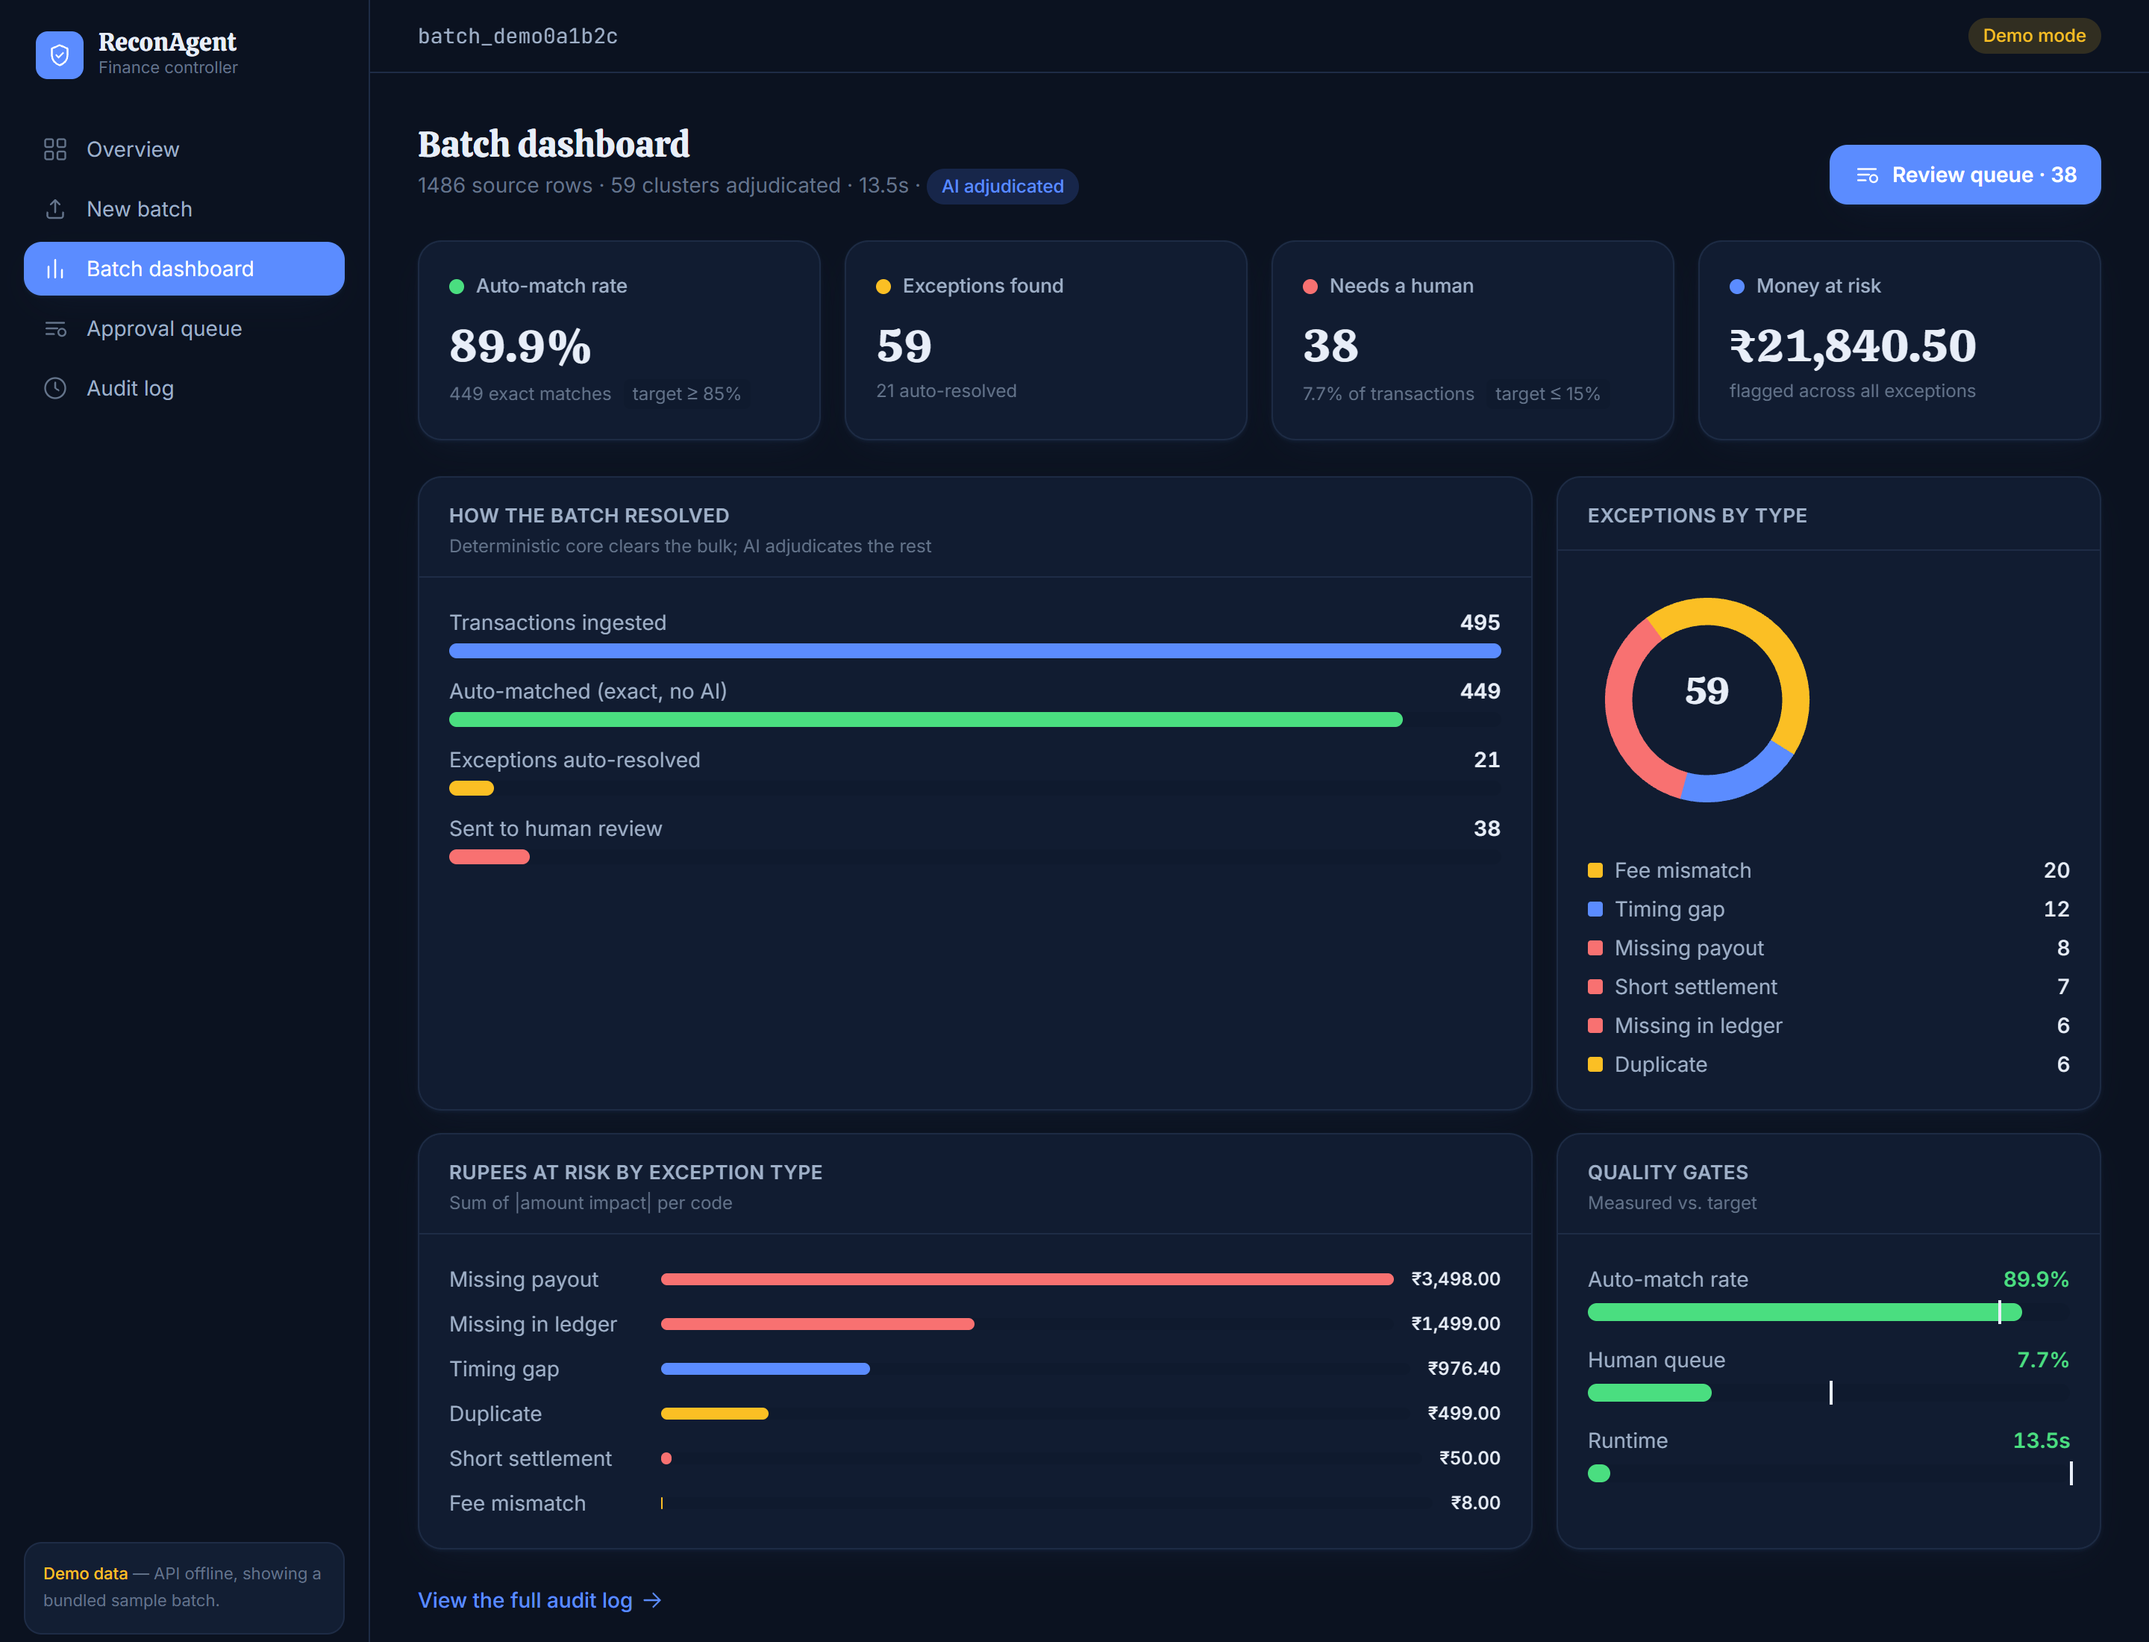
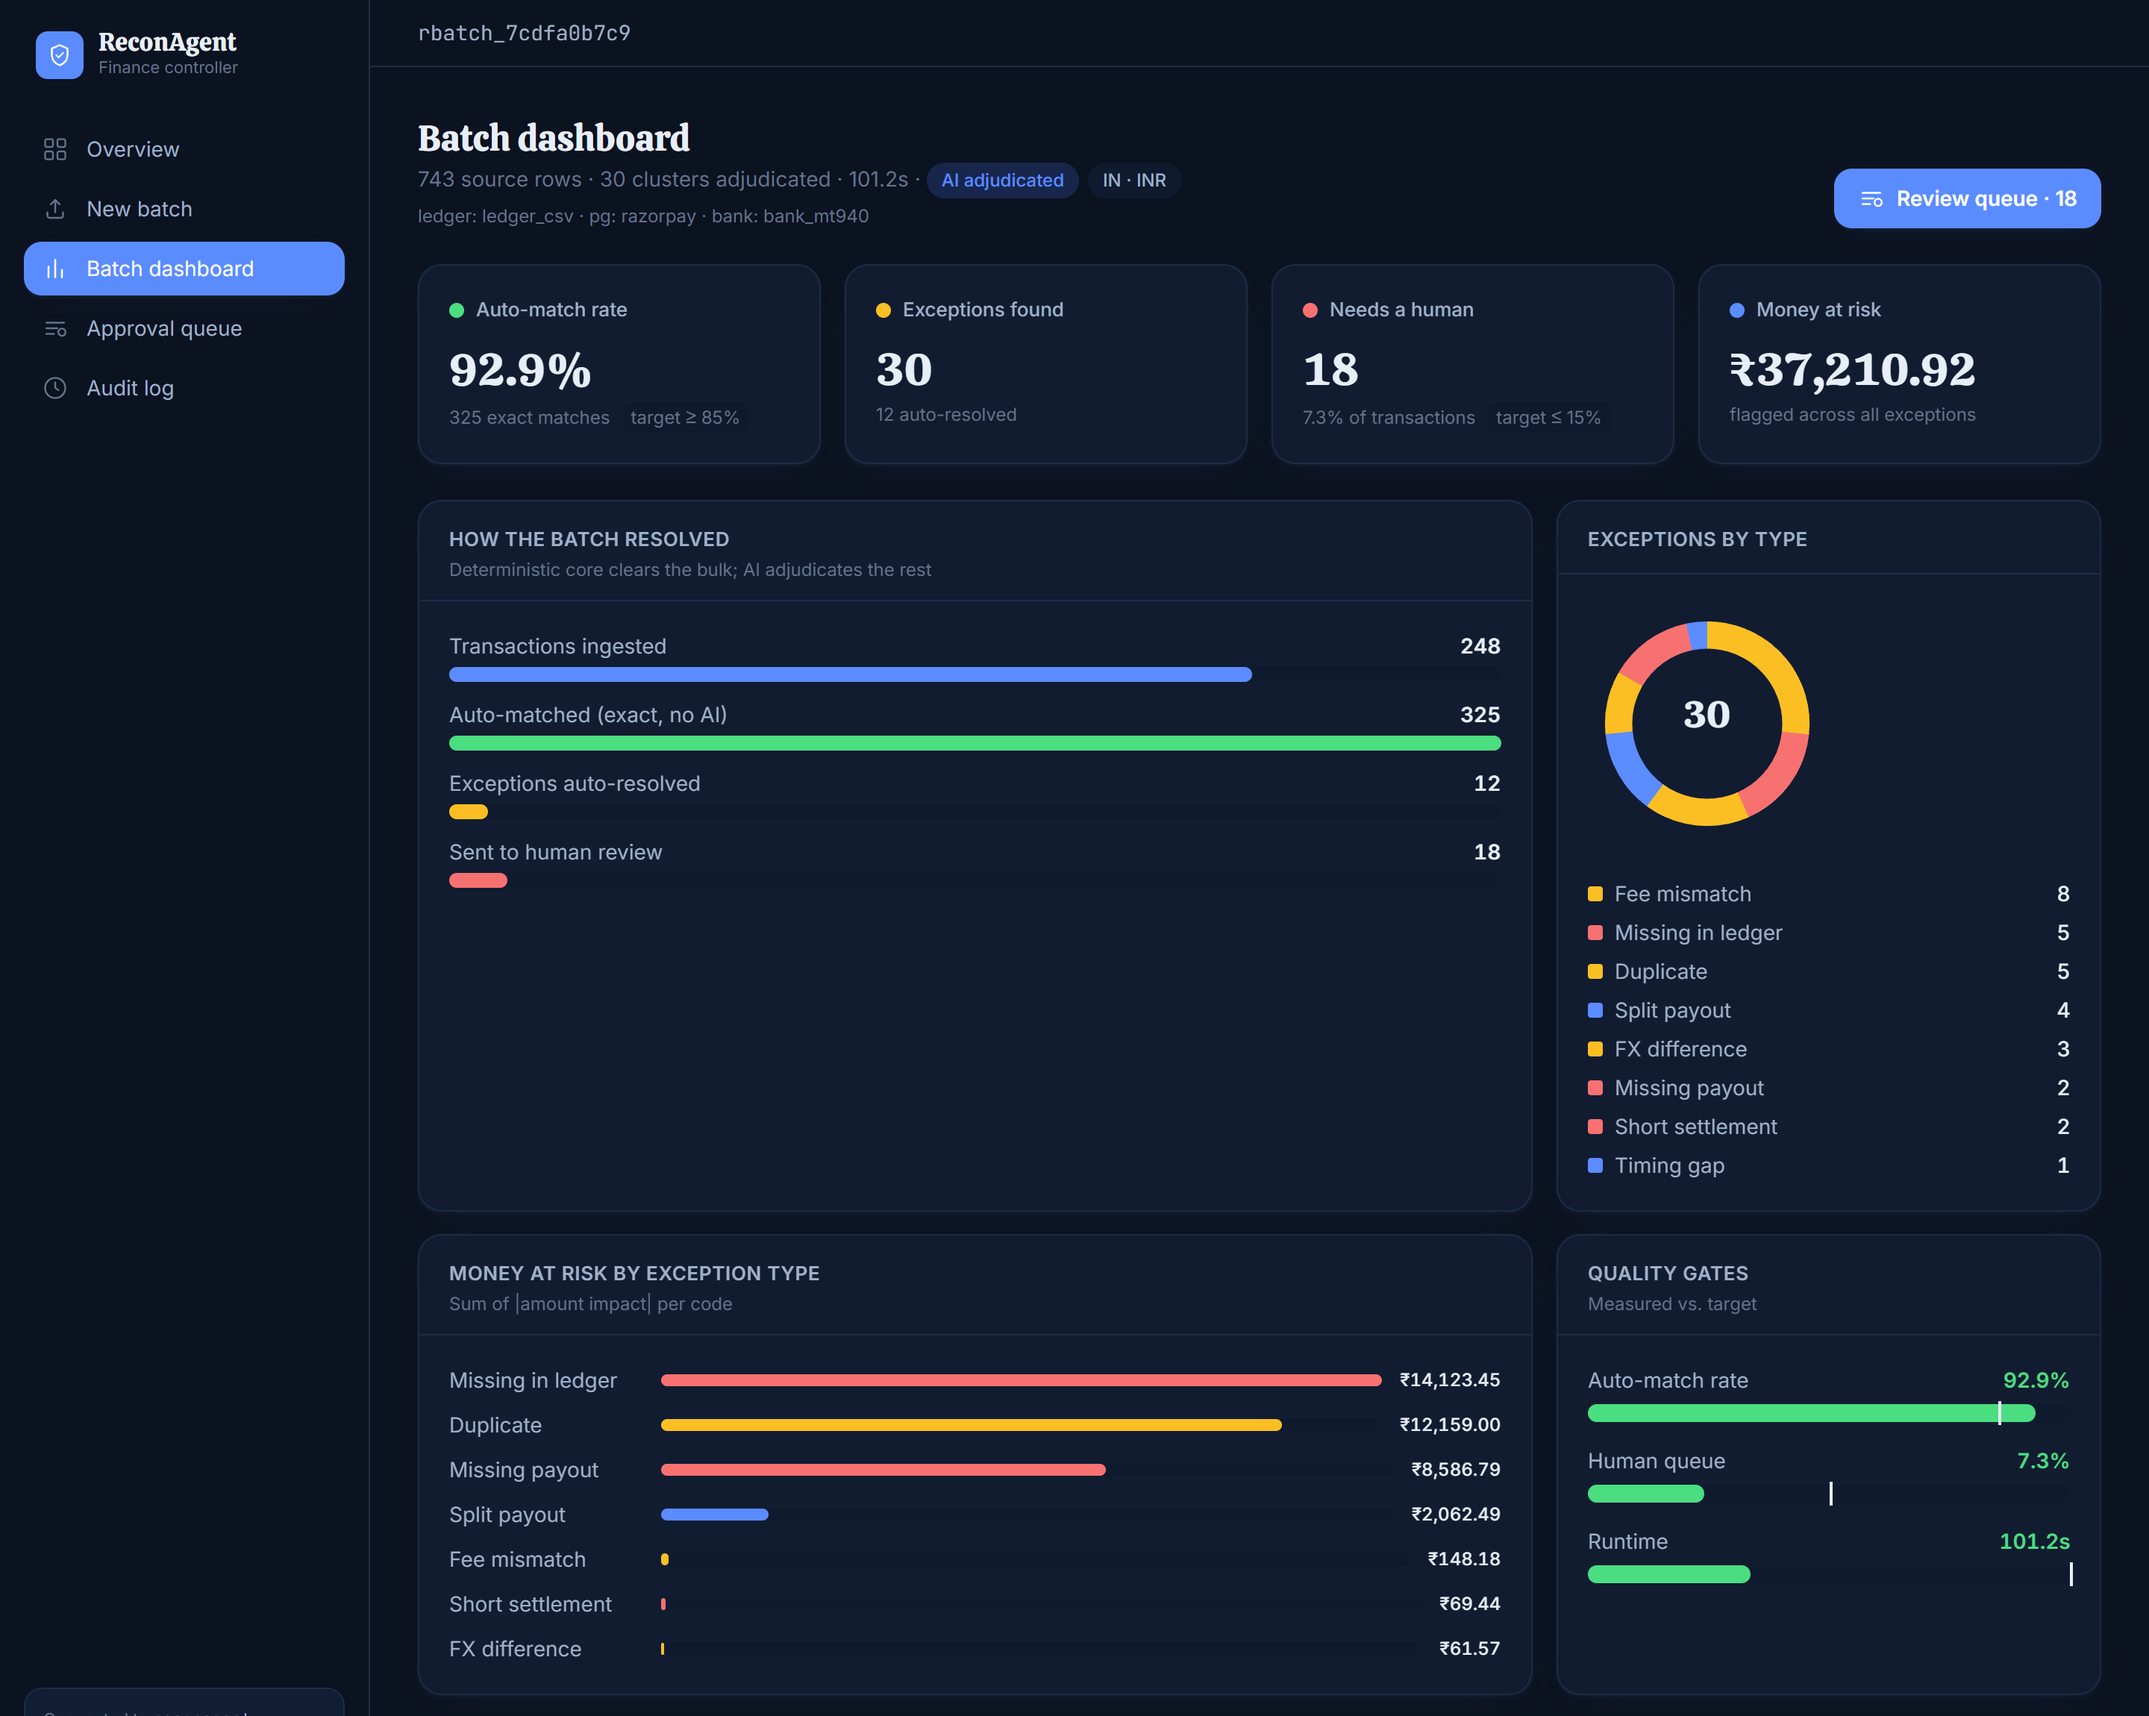
Recapture all screenshots against the live, fully-fixed deployment
Real data throughout now (not demo mode): a live IN batch (rbatch_7cdfa0b7c9,
92.9% auto-match, rich exception mix) and a live US batch (rbatch_a1a0ae5c22,
93.2%, USD) run against the deployed backend. Added the US batch-dashboard
shot as multi-region/multi-currency proof. Queue + audit screenshots capture
a real approval end to end: click -> POST /approvals -> Atlas write -> audit
trail entry -> queue count updates, all against the live stack, not mocked.

diff --git a/README.md b/README.md
@@ -30,16 +30,21 @@ decision.
 | --- | --- |
 | ![Overview — latest batch KPIs and recent runs](docs/screenshots/overview.png) | ![New batch — region picker, real-format uploads, sample datasets](docs/screenshots/upload.png) |
 
-| Batch dashboard | Approval queue |
+| Batch dashboard (India, ₹) | Batch dashboard (US, $) |
 | --- | --- |
-| ![Batch dashboard — funnel, exceptions donut, ₹ at risk, quality gates](docs/screenshots/batch-dashboard.png) | ![Approval queue — expandable exception cards with the agent's rationale](docs/screenshots/queue.png) |
+| ![Batch dashboard — India batch, funnel, exceptions donut, ₹ at risk, quality gates](docs/screenshots/batch-dashboard.png) | ![Batch dashboard — US batch, same layout in USD with FX/short-settlement exceptions](docs/screenshots/batch-dashboard-us.png) |
 
-<details>
-<summary>Audit log</summary>
+Same engine, two live runs, two currencies — money figures are formatted in
+the batch's own currency throughout, not hardcoded to ₹.
 
-![Audit log — append-only, actor-coded timeline of every decision](docs/screenshots/audit.png)
+| Approval queue | Audit log |
+| --- | --- |
+| ![Approval queue — expandable exception cards with the agent's rationale, evidence and Approve/Edit/Reject](docs/screenshots/queue.png) | ![Audit log — append-only, actor-coded timeline of every decision](docs/screenshots/audit.png) |
 
-</details>
+The queue screenshot is mid-review: one exception has already been approved
+(queue count dropped from 18 → 17) — that decision is the last entry in the
+audit log on the right, written by a real `POST /approvals` call against the
+live backend, not a mocked interaction.
 
 ---
 
